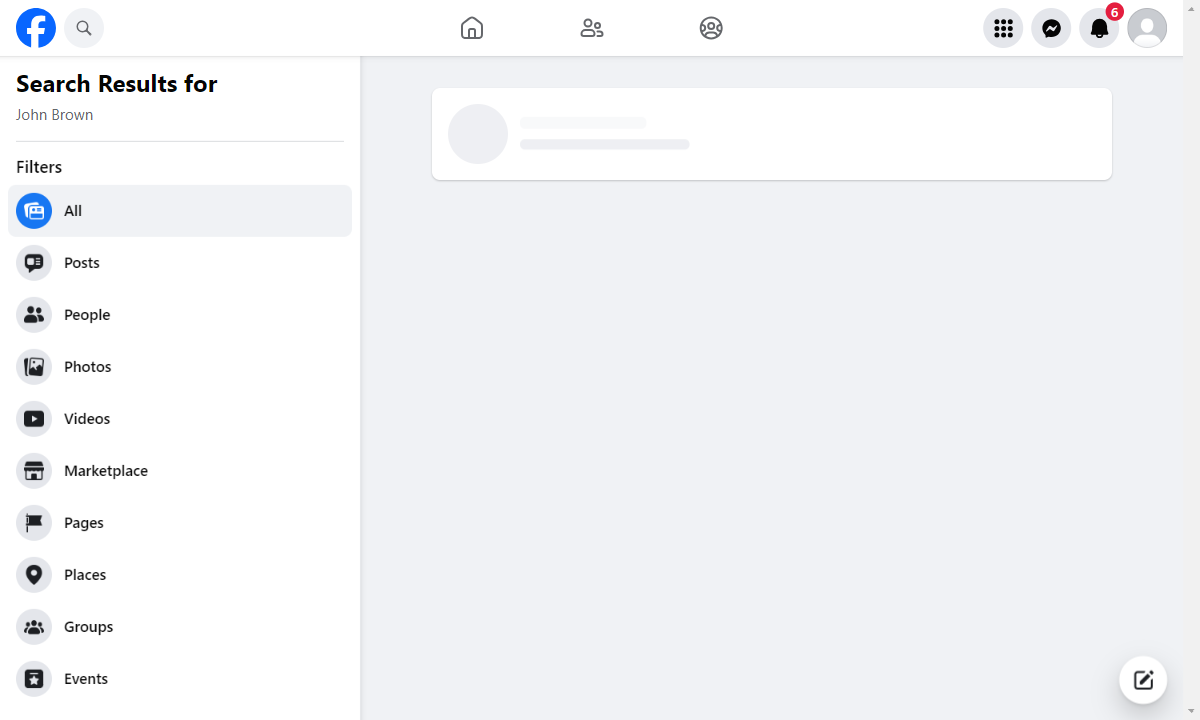
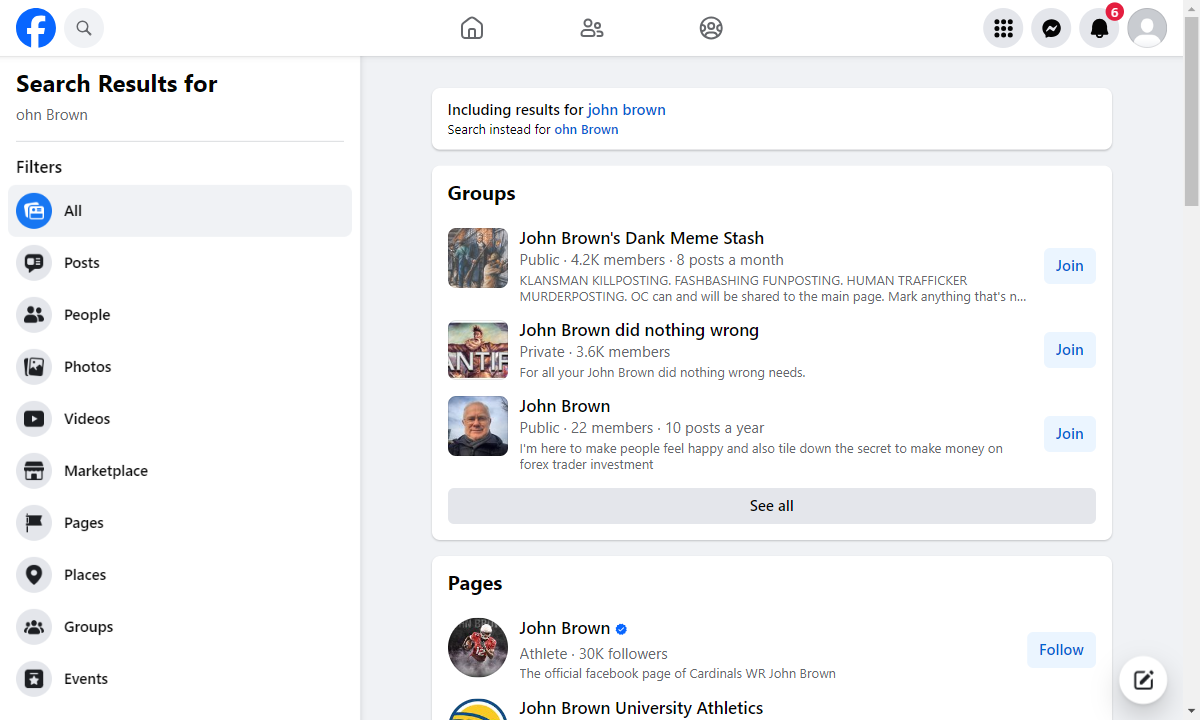
Updated People Click function

diff --git a/src/facebook-monitor.js b/src/facebook-monitor.js
@@ -55,38 +55,74 @@ async function signIn(page){
         console.error("Error while clicking the button:", error);
     }
 
-    //capture screenshot
+    // Capture Screenshot of Finished Process
     await page.screenshot({ //capture screenshot
         path: './screenshots/LoggedIn.png'
     });
 }
 
 async function searchInput(page){
+    try {
+        // Wait for the search input field to appear
+        await page.waitForSelector('[placeholder="Search Facebook"]');
 
-    // Wait for the search input field to appear
-    await page.waitForSelector('[placeholder="Search Facebook"]');
+        // Type into the search input field
+        await page.type('[placeholder="Search Facebook"]', searchQuery);
 
-    // Type into the search input field
-    await page.type('[placeholder="Search Facebook"]', searchQuery);
+        // Press the Enter key after typing
+        await page.keyboard.press('Enter');
 
-    // Press the Enter key after typing
-    await page.keyboard.press('Enter');
-
+    } catch (error) {
+        console.log("Search Failed For: " + searchQuery, error);
+    }
+    
     // Wait for navigation after pressing Enter
     await page.waitForNavigation();
 
-    // Now the page has navigated, you can continue with further actions
-    await page.screenshot({ path: './screenshots/SearchResults.png' });
+    // Capture Screenshot of finished process
+    await page.screenshot({ //capture screenshot
+        path: './screenshots/SearchResults.png'
+    });
 }
 
-async function searchElement(page){
+async function clickPeople(page){
+    try {
+        // Wait for the list items to appear
+        await page.waitForSelector('[role="listitem"]');
+
+        // Get all list items
+        const listItems = await page.$$('[role="listitem"]');
+
+        // Check if there are at least three list items
+        if (listItems.length >= 10) {
+            // Click on the third list item
+            await listItems[2].click();
+        } else {
+            console.log('There are less than three list items.');
+        }
+    } catch (error) {
+        console.log("Search Failed For: " + error);
+    }
     
+    // Wait for navigation after Clicking People
+    await page.waitForNavigation();
+
+    // Wait until page is idle
+    //await page.waitForNavigation({ waitUntil: 'networkidle2', timeout: 30000 }); // Wait for up to 30 seconds
+    // Add a delay of 2 seconds
+    //await page.waitForTimeout(10000);
+
+    // Capture Screenshot of finished process
+    await page.screenshot({ //capture screenshot
+        path: './screenshots/PeopleResults.png'
+    });
 }
 
 async function run () {
     var page = await loadPage();
     await signIn(page);
     await searchInput(page);
+    await clickPeople(page);
 
 }
 
